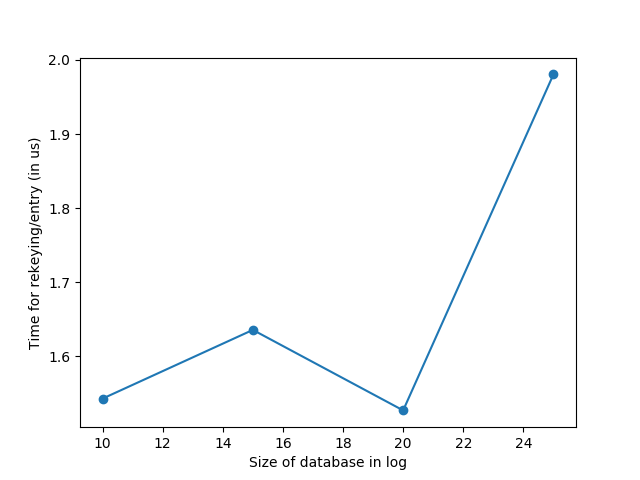
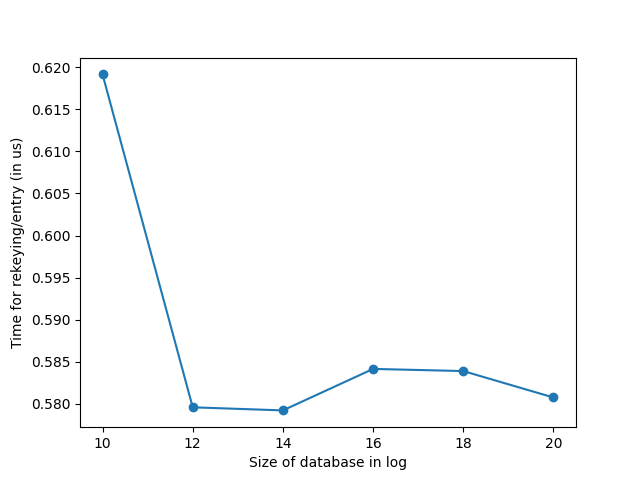
generated benchmark images for rekeying

diff --git a/benchmarking/src/reencyption.py b/benchmarking/src/reencyption.py
@@ -4,7 +4,8 @@ import pathlib
 import numpy as np
 import matplotlib as mpl
 import matplotlib.pyplot as plt
-mpl.use('tkagg')
+
+#np.set_printoptions(formatter={'float': lambda x: "{0:0.2f}".format(x)})
 
 def benchmark_rekeying(db_sizes):
     time_ms = []
@@ -19,8 +20,7 @@ def benchmark_rekeying(db_sizes):
     plt.ylabel("Time for rekeying/entry (in us)")
     plt.savefig("../images/rekeying.png")
 
-    print("mean:{.2f}, std:{.2f}".format(np.mean(time_us_per_entry), np.std(time_us_per_entry)))
-
+    print("mean:{0:0.2f}, std:{1:0.3f}".format(np.mean(time_us_per_entry), np.std(time_us_per_entry)))
 
 if __name__ == "__main__":
     # Load the shared library into ctypes
@@ -31,7 +31,7 @@ if __name__ == "__main__":
     c_lib.testReKeying.restype = ctypes.c_float
     c_lib.testReEncryption.restype = ctypes.c_float
 
-    db_sizes = [1 << i for i in [10,15,20,25]]
+    db_sizes = [1 << i for i in [10,12,14,16,18,20]]
     # db_sizes = [1 << i for i in [20]]
     elem_sizes = [32, 64, 128, 256]
 
